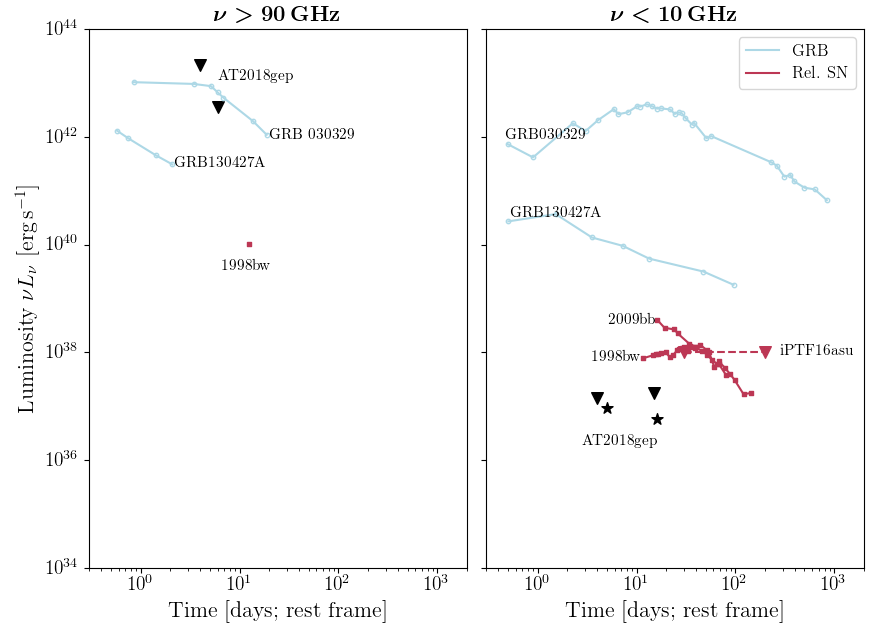
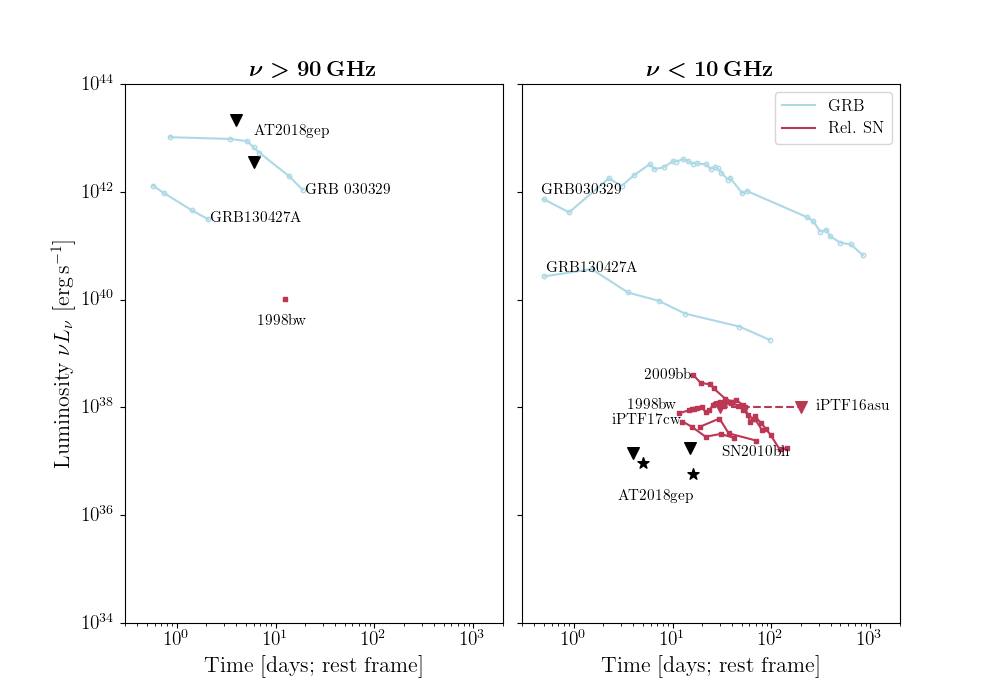
update figures with a lot more explosions

diff --git a/paper_plots/velocity.py b/paper_plots/velocity.py
@@ -11,6 +11,7 @@ from astropy.cosmology import Planck15
 
 DATA_DIR = "/Users/annaho/Dropbox/Projects/Research/ZTF18abukavn/data"
 
+
 def plot_18gep():
     """ Temporary values from Ragnhild """
     dt = np.array([4, 9, 11.5, 16.5, 22])
@@ -18,11 +19,9 @@ def plot_18gep():
     evel = np.array([1000, 4000, 2000, 1000, 2000])/1E3
     el = np.array(['O', 'Fe', 'Fe', 'Fe', 'Fe'])
 
-    #plt.errorbar(
-    #        dt[el=='O'], vel[el=='O'], yerr=evel[el=='O'], fmt='o', c='k')
     plt.errorbar(
             dt[el=='Fe'], vel[el=='Fe'], yerr=evel[el=='Fe'], 
-            fmt='s', c='k', label="AT2018gep", zorder=10)
+            fmt='s', c='k', label="AT2018gep", zorder=10, ms=10, lw=2)
 
 
 def plot_16asu():
@@ -40,9 +39,9 @@ def plot_16asu():
     print(vel)
     evel = np.array(
             [1.3, 1.4, 0.3, 0.4, 1.3])*1000/1E3
-    #plt.errorbar(dt, vel, yerr=evel, fmt='s', c='grey', label="iPTF16asu")
+    plt.scatter(dt, vel, marker='o', c='grey')
     plt.plot(dt, vel, c='grey', label='Rel SN, no GRB')
-    plt.text(dt[0], vel[0], 'iPTF16asu',
+    plt.text(dt[0]/1.03, vel[0], 'iPTF16asu',
             horizontalalignment='right', fontsize=12,
             verticalalignment='center')
 
@@ -64,10 +63,25 @@ def plot_population():
     choose = names == name
     dt = phase[choose]+offset
     v = vel[choose]
-    plt.plot(dt, v, c='magenta', label="LLGRB-SN")
-    plt.text(dt[-1], v[-1], 'SN2006aj',
-            horizontalalignment='left', fontsize=12,
+    plt.plot(dt, v, c='#f98e09', label="LLGRB-SN")
+    plt.scatter(dt, v, c='#f98e09')
+    plt.text(dt[1]/1.03, v[1], 'SN2006aj',
+            horizontalalignment='right', fontsize=12,
+            verticalalignment='top')
+
+    name = 'sn2010bh'
+    # epoch of burst: March 16 2010
+    # epoch of max: 8 days post-explosion (Bufano 2012)
+    offset = 8
+    choose = names == name
+    dt = phase[choose]+offset
+    v = vel[choose]
+    plt.plot(dt, v, c='#f98e09')
+    plt.scatter(dt, v, c='#f98e09')
+    plt.text(dt[8]/1.03, v[8], 'SN2010bh',
+            horizontalalignment='right', fontsize=12,
             verticalalignment='center')
+     
 
     name = 'sn1998bw'
     # explosion epoch: 2450929.41
@@ -76,10 +90,26 @@ def plot_population():
     choose = names == name
     dt = phase[choose] + offset
     v = vel[choose]
-    plt.plot(dt, v, c='magenta')
+    plt.plot(dt, v, c='#f98e09')
+    plt.scatter(dt, v, c='#f98e09')
     plt.text(dt[0], v[0], 'SN1998bw',
-            horizontalalignment='right', fontsize=12,
-            verticalalignment='center')
+            horizontalalignment='center', fontsize=12,
+            verticalalignment='bottom')
+
+    name = 'sn2003dh'
+    # this is GRB 030329
+    # burst: March 29
+    # rise time is 14 days according to Matheson 2003
+    offset = 14
+    choose = names == name
+    dt = phase[choose]+offset
+    v = vel[choose]
+    plt.plot(dt, v, c='#f98e09')
+    plt.scatter(dt, v, c='#f98e09')
+    plt.text(dt[0], v[0], 'SN2003dh',
+            horizontalalignment='center', fontsize=12,
+            verticalalignment='bottom', zorder=5)
+
 
 
     # Rel SN, no GRB
@@ -91,9 +121,53 @@ def plot_population():
     dt = phase[choose]+offset
     v = vel[choose]
     plt.plot(dt, v, c='grey')
-    plt.text(dt[0], v[0], 'SN2009bb',
+    plt.scatter(dt, v, c='grey')
+    plt.text(dt[2], v[2]/1.02, 'SN2009bb',
             horizontalalignment='right', fontsize=12,
-            verticalalignment='center')
+            verticalalignment='top', zorder=5)
+
+    name = 'sn2012ap'
+    # explosion date: 2012 Feb 5
+    # maximum light: let's use the B-band max from Milisavljevic 2014,
+    # which is on Feb 18.2, so that's 13 days
+    offset = 13
+    choose = names == name
+    dt = phase[choose]+offset
+    v = vel[choose]
+    plt.plot(dt, v, c='grey')
+    plt.scatter(dt, v, c='grey')
+    plt.text(dt[0], v[0], 'SN2012ap',
+            horizontalalignment='right', fontsize=12,
+            verticalalignment='center', zorder=5)
+
+    # iPTF17cw
+    # max light: 57760.666 is 8 days before maximum light
+    # explosion time set to be 57750.552
+    # so it's 18 days to maximum
+    dt = np.array([17, 43]) + 18 # since maximum light
+    v = np.array([17300, 17500]) / 1E3
+    plt.plot(dt, v, c='grey')
+    plt.scatter(dt, v, c='grey')
+    plt.text(dt[0], v[0]/1.03, 'iPTF17cw',
+            horizontalalignment='left', fontsize=12,
+            verticalalignment='top', zorder=5)
+
+    # 2008D: measured using He I 5876 lines
+    dt = np.array(
+            [5.75, 6.77, 9.00, 11.66,  
+             22.78, 23.88, 30.56, 32.61, 
+             33.87, 37.79, 49.81, 60.67])
+    v = np.array(
+            [14200, 13300, 12300, 11500, 
+             10600, 10600, 10500, 10400, 
+             10300, 10000, 9300, 8600]) /1E3
+    plt.scatter(dt, v, c='grey')
+    plt.plot(dt, v, c='grey')
+    plt.text(dt[0], v[0], '2008D(HeI)',
+            horizontalalignment='right', fontsize=12,
+            verticalalignment='top', zorder=5)
+
+
 
     # regular Ic
     name = 'sn2007gr'
@@ -105,7 +179,8 @@ def plot_population():
     choose = names == name
     dt = phase[choose]+offset
     v = vel[choose]
-    plt.plot(dt, v, c='lightblue', label='SN Ic')
+    plt.plot(dt, v, c='#57106e', label='SN Ic')
+    plt.scatter(dt, v, c='#57106e')
     plt.text(dt[0], v[0], 'SN2007gr',
             horizontalalignment='right', fontsize=12,
             verticalalignment='center')
@@ -119,7 +194,8 @@ def plot_population():
     choose = names == name
     dt = phase[choose]+offset
     v = vel[choose]
-    plt.plot(dt, v, c='lightblue')
+    plt.plot(dt, v, c='#57106e')
+    plt.scatter(dt, v, c='#57106e')
     plt.text(dt[0], v[0], 'SN2005az',
             horizontalalignment='right', fontsize=12,
             verticalalignment='center')
@@ -127,6 +203,8 @@ def plot_population():
 
 
 if __name__=="__main__":
+    fig,ax = plt.subplots(1, 1, figsize=(7,8))
+
     plot_18gep()
     plot_16asu()
     plot_population()
@@ -138,8 +216,8 @@ if __name__=="__main__":
             r"Fe II Velocity ($10^3$ km/s)", fontsize=14)
     #plt.yscale('log')
     #plt.xscale('log')
-    plt.xlim(0, 30)
-    plt.ylim(0, 35)
+    plt.xlim(0, 40)
+    plt.ylim(0, 40)
     plt.tick_params(axis='both', labelsize=14)
     plt.tight_layout()
 

diff --git a/paper_plots/nufnu_time.py b/paper_plots/nufnu_time.py
@@ -356,15 +356,32 @@ def sn1998bw(ax, col, legend):
     f = np.array([39])
     lum = plot_line(ax[0], d, t, nu*f, 'SN1998bw', 'Rel. SN', col, legend)
     nu = 2.3E9
-    t = np.array([11.7, 14.6, 15.7, 16.5, 17.8, 19.7, 21.6, 23.6, 25.9, 26.8, 28.8, 30.0, 32.9, 34.7, 36.8, 38.8, 40.0, 45.7, 51.7, 57.7, 64.7, 67.7, 80.5])
-    f = np.array([19.7, 22.3, 23.5, 23.9, 25.1, 25.3, 20.9, 22.9, 28.0, 28.7, 31.1, 31.3, 27.3, 33.5, 31.8, 31, 31.3, 26.8, 23.1, 18.5, 15.6, 15.6, 9.6])
+    t = np.array(
+            [11.7, 14.6, 15.7, 16.5, 17.8, 19.7, 21.6, 23.6, 25.9, 26.8, 
+             28.8, 30.0, 32.9, 34.7, 36.8, 38.8, 40.0, 45.7, 51.7, 57.7, 
+             64.7, 67.7, 80.5])
+    f = np.array(
+            [19.7, 22.3, 23.5, 23.9, 25.1, 25.3, 20.9, 22.9, 28.0, 28.7, 
+            31.1, 31.3, 27.3, 33.5, 31.8, 31, 31.3, 26.8, 23.1, 18.5, 
+            15.6, 15.6, 9.6])
     ax[0].text(t[0], lum[0]/2, '1998bw', fontsize=11,
             verticalalignment='top',
             horizontalalignment='center')
     lum = plot_line(ax[1], d, t, nu*f, 'SN1998bw', 'Rel. SN', col, legend)
     ax[1].text(t[0]/1.05, lum[0], '1998bw', fontsize=11,
-            verticalalignment='center',
+            verticalalignment='bottom',
             horizontalalignment='right')
+
+
+def sn2010bh(ax, col, legend):
+    d = Planck15.luminosity_distance(z=0.0593).cgs.value
+    nu = 5.4E9
+    t = np.array([18.93, 29.87, 36.97, 69.87])
+    f = np.array([90, 128, 68, 50])*1E-3
+    lum = plot_line(ax[1], d, t, nu*f, 'SN2010bh', 'Rel. SN', col, legend)
+    ax[1].text(t[-1], lum[-1]/1.3, 'SN2010bh', fontsize=11,
+            verticalalignment='top',
+            horizontalalignment='center')
 
 
 def at2018gep(ax, col, legend):
@@ -413,6 +430,31 @@ def iptf16asu(ax, col, legend):
             horizontalalignment='left', verticalalignment='center')
 
 
+def iptf17cw(ax, col, legend):
+    d = Planck15.luminosity_distance(z=0.093).cgs.value
+    nu = 6.2E9
+    t = np.array([12.6, 15.7, 21.6, 30.7, 41.6])
+    f = np.array([38.1, 30.4, 19.9, 22.4, 19])*1E-3
+    lum = plot_line(ax[1], d, t, nu*f, 'iPTF17cw', 'Rel. SN', col, legend)
+    ax[1].text(t[0]/1.05, lum[0], 'iPTF17cw', fontsize=11,
+            verticalalignment='center',
+            horizontalalignment='right')
+
+
+def sn2006aj(ax, col, legend):
+    d = 145*3.086E24
+    nu = 8.46E9
+    t = np.array([1.87, 3, 3.83, 4.85, 6.97, 7.94, 9.95, 12.88,
+        16.74, 19.86, 21.96, 24.91, 30.71, 34.81, 41.74, 50.70, 104.52])
+    f = np.array([453, 381, 269, 280, 164, 30, 39, 15, 75, 48, 87, 20, 32, 15,
+        22, 25, 17])*1E-3
+    lum = plot_line(ax[1], d, t, nu*f, 'SN2006aj', 'Rel. SN', col, legend)
+    ax[1].text(t[0]/1.05, lum[0], 'SN2006aj', fontsize=11,
+            verticalalignment='center',
+            horizontalalignment='right')
+
+
+
 if __name__=="__main__":
     fig, axarr = plt.subplots(1, 2, figsize=(10,7), sharex=True, sharey=True)
     props = dict(boxstyle='round', facecolor='white')
@@ -425,6 +467,10 @@ if __name__=="__main__":
 
     sn2009bb(axarr, '#bc3754', legend=True)
     sn1998bw(axarr, '#bc3754', None)
+    iptf17cw(axarr, '#bc3754', None)
+    sn2010bh(axarr, '#bc3754', None)
+    sn2006aj(axarr, '#bc3754', None)
+
 
     axarr[0].set_ylabel(
             r"Luminosity $\nu L_{\nu}$ [erg\,s$^{-1}$]", 
@@ -441,5 +487,5 @@ if __name__=="__main__":
     axarr[1].legend(fontsize=12, loc='upper right')
 
     plt.subplots_adjust(wspace=0.05)
-    #plt.show()
-    plt.savefig("lum_evolution.png")
+    plt.show()
+    #plt.savefig("radio_lc.png")
